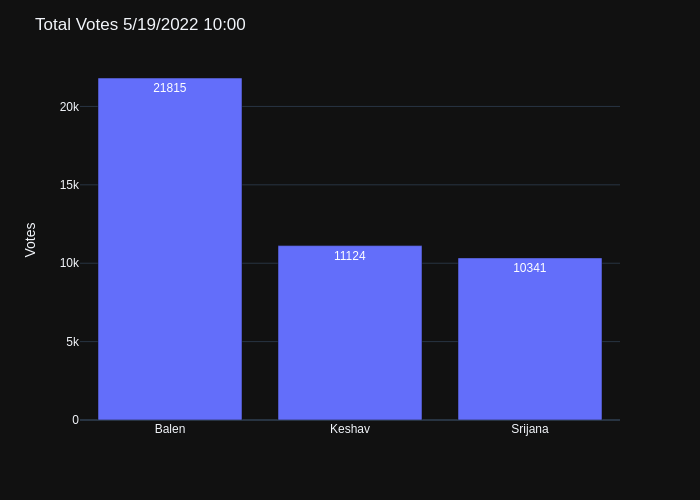
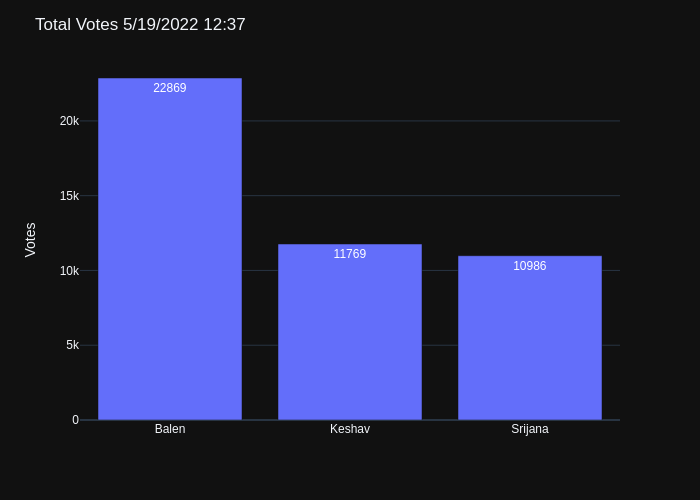
add data

diff --git a/README.md b/README.md
@@ -1,4 +1,4 @@
-## Last Update: 5/19/2022 10:00
+## Last Update: 5/19/2022 12:37
 
 ## Balen's Lead against Keshav Sthapit and Srijana Singh
 ![ScreenShot](final.jpg)
